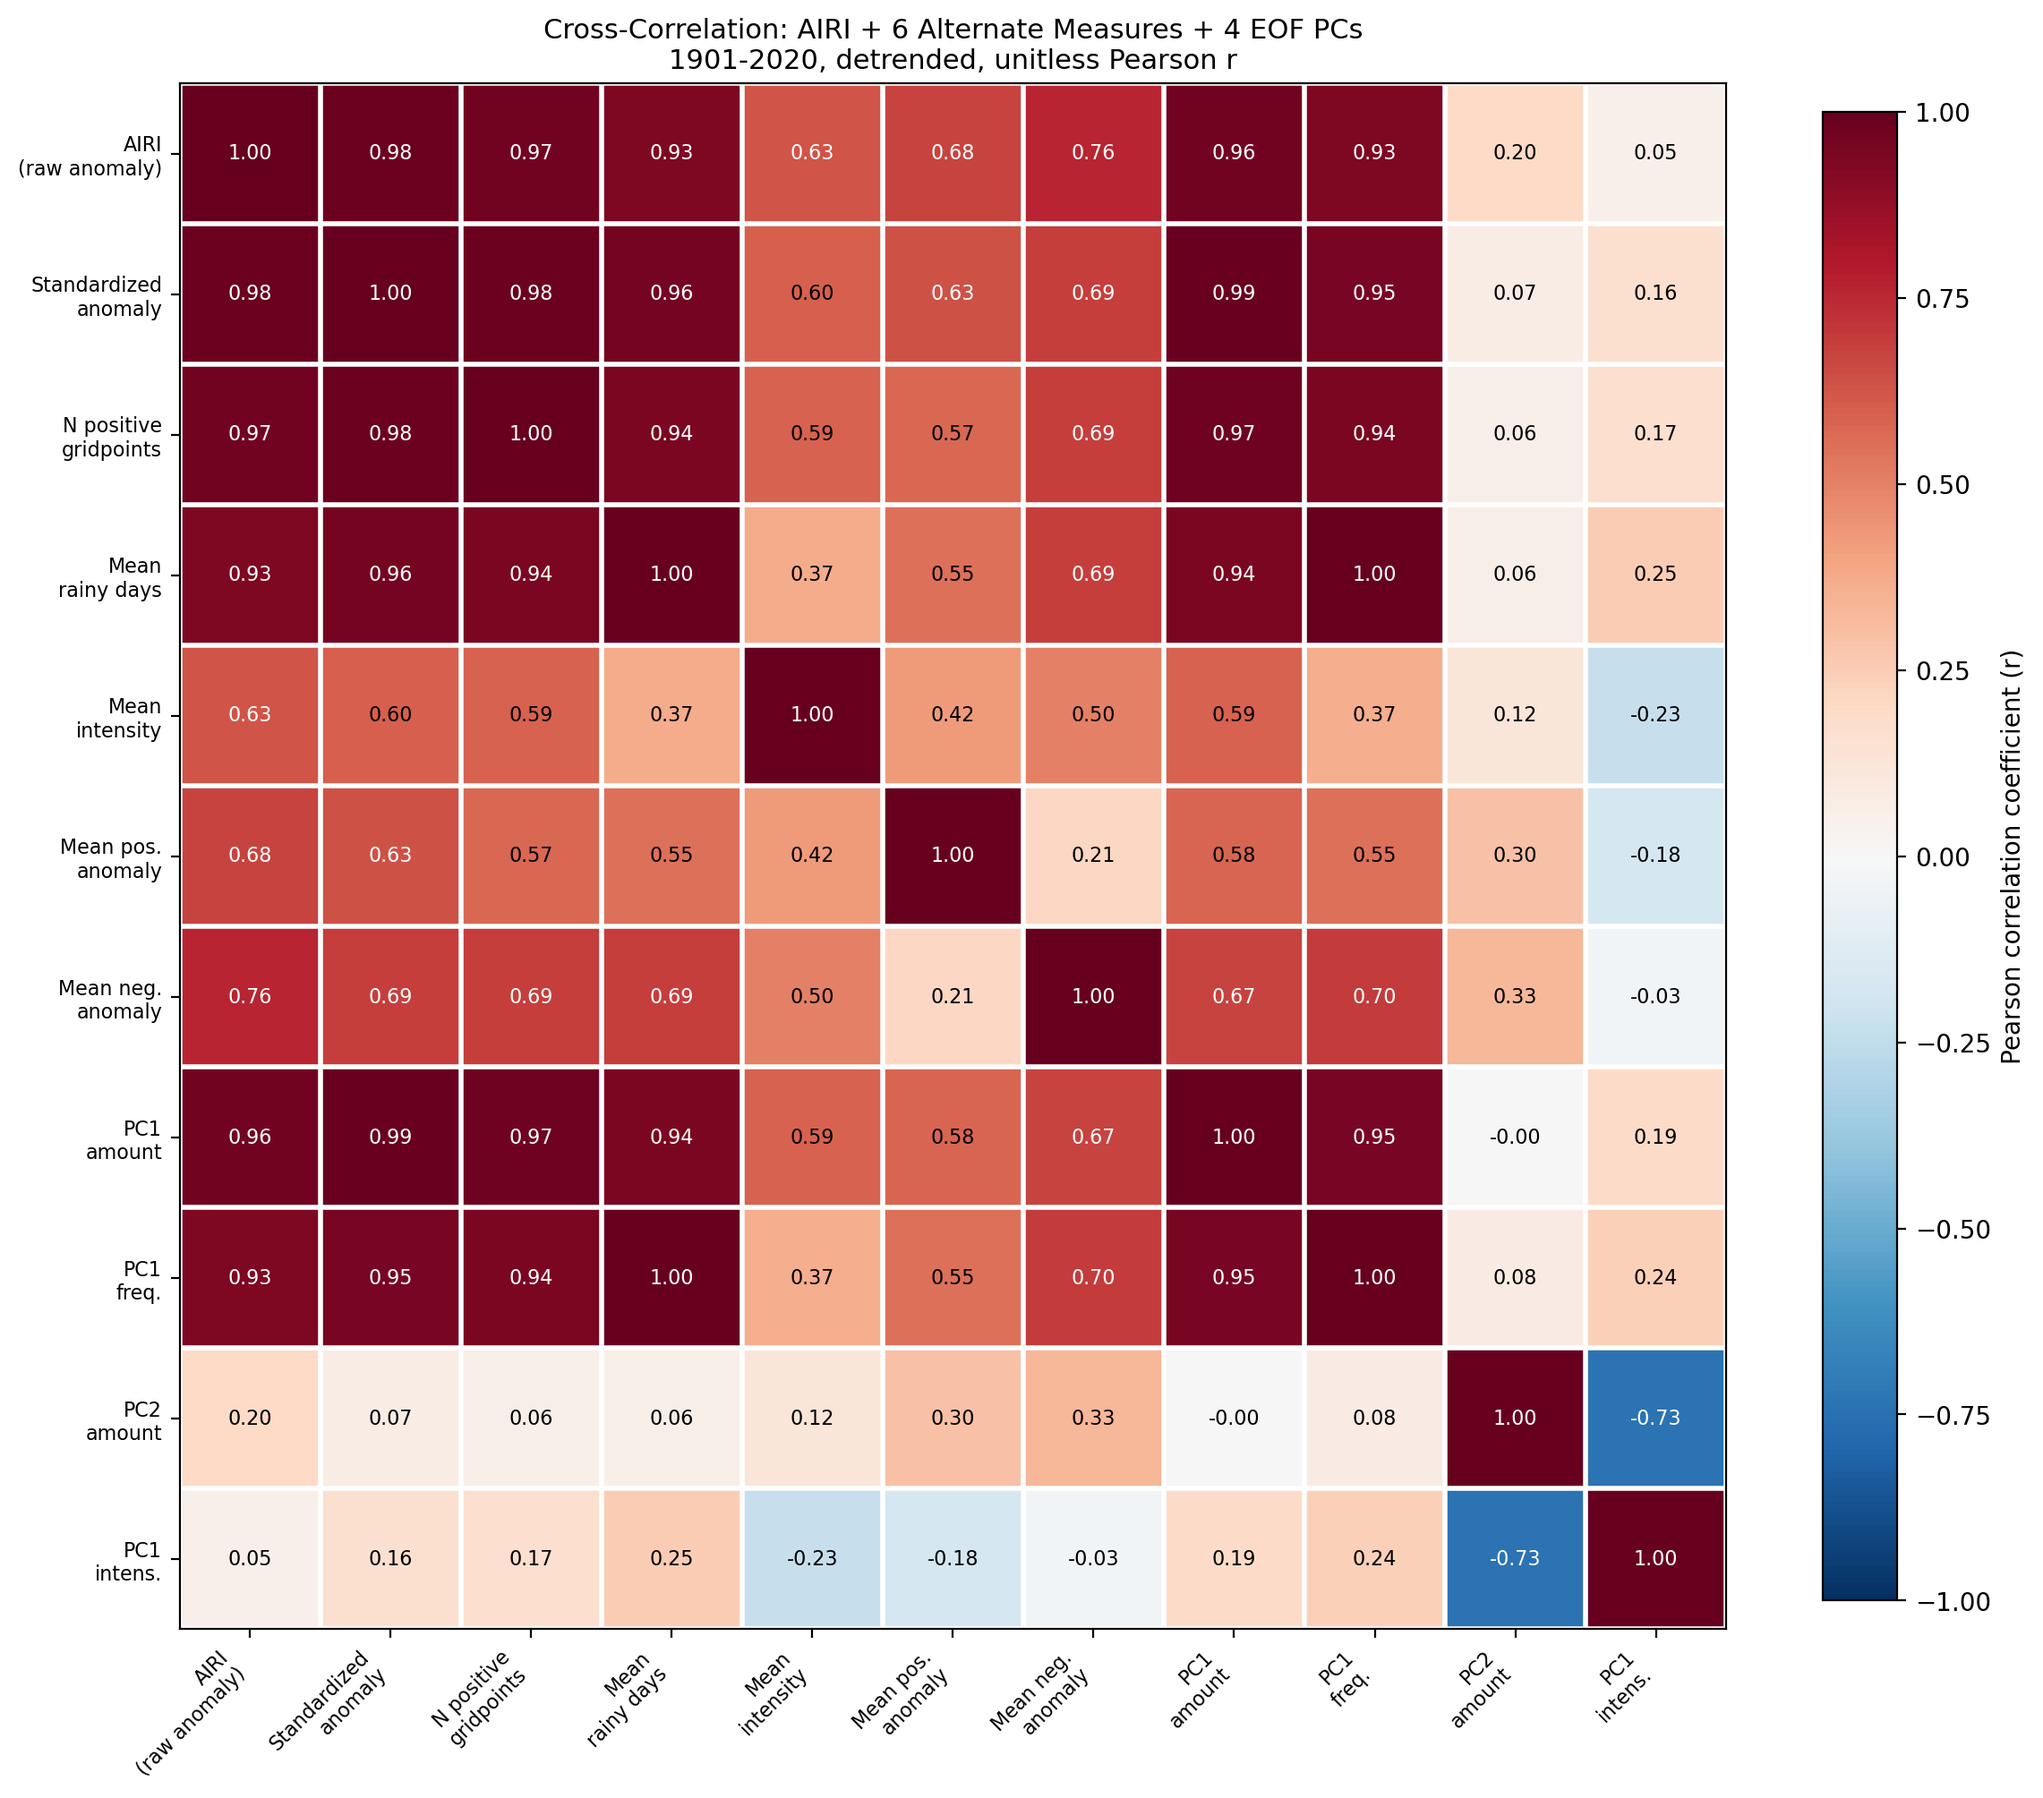
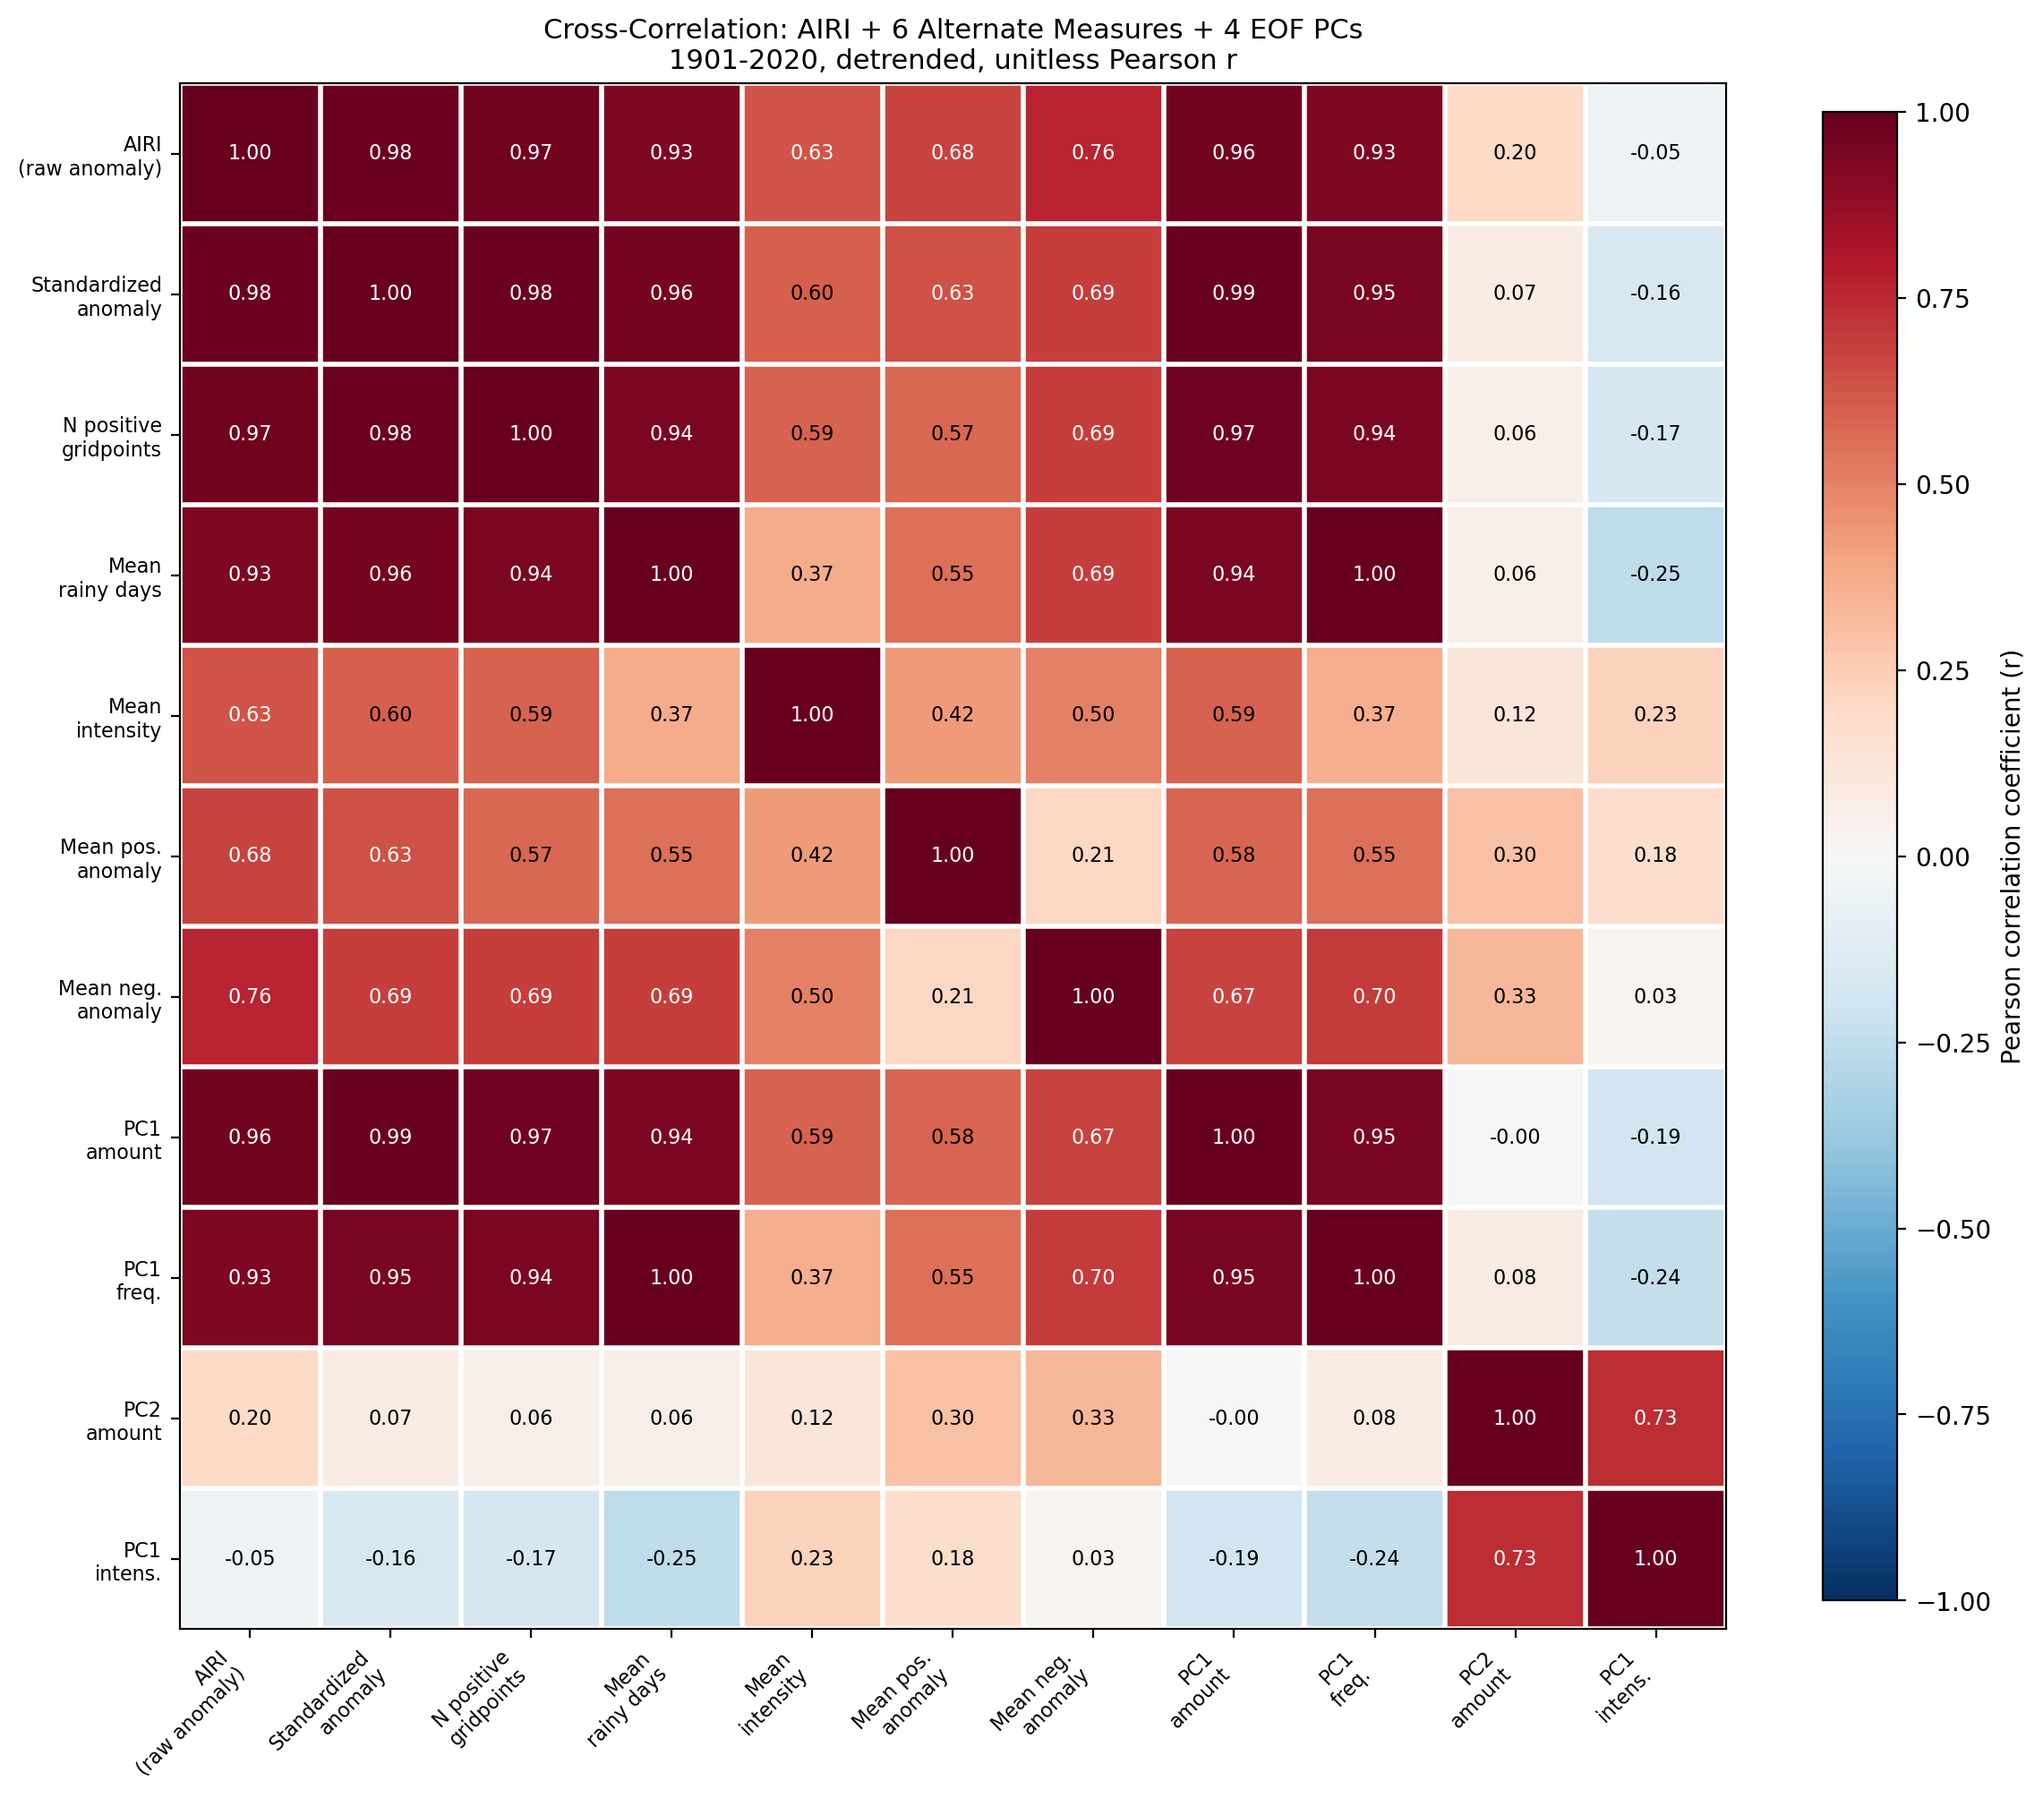
Fix PC1-intensity sign to match source paper's convention
compute_moron_eof_analysis.py and plot_eof_comparison.py previously forced
PC1 to correlate POSITIVELY with AIRI for all three EOF variables uniformly.
That was backwards for mean intensity specifically: the source paper's own
published correlation matrix shows PC1-intensity anti-correlated with AIRI,
while rainfall-amount and rainy-day-frequency are both strongly positive.
Added a per-variable TARGET_SIGN so intensity is now fixed to correlate
NEGATIVELY with AIRI instead, matching the paper.

This flips the sign of every correlation involving pc1_mean_intensity in the
correlation matrix (nothing else changes) - e.g. vs AIRI: +0.05 -> -0.05, vs
PC2-amount: -0.73 -> +0.73. Also flips the eof_mean_intensity.png spatial
pattern (red/blue swapped) and the eof_comparison.png panel.

Reminder for future work: EOF sign is mathematically arbitrary and there's no
way to know the "correct" one a priori - it has to be checked against a
reference (here, the paper's reported correlation signs), not assumed
uniform across variables just because it worked for two of three.

Changed region(s): [[0.56, 0.5864, 0.8712, 0.9258], [0.1556, 0.8024, 0.4978, 0.9258], [0.7778, 0.1234, 0.8712, 0.5246]]

diff --git a/compute_moron_eof_analysis.py b/compute_moron_eof_analysis.py
@@ -18,12 +18,16 @@ EOF decomposition uses cos(latitude) area weighting and fills the invalid
 (non-India) domain with 0 before solving, matching the convention in the
 companion enso-sst-analysis project's eofAnalysis_fixed.py.
 
-PC1's sign for each variable is flipped, if needed, so it correlates
-positively with AIRI's detrended raw-anomaly index
-(data/indices/airi_indices.csv, airi_raw_anomaly_mm_day_detrended) - EOF sign
-is mathematically arbitrary, so this just fixes the physically intuitive
-convention (positive PC1 = wetter/more frequent/more intense than normal).
-EOF2 has no equally natural anchor, so its raw solver sign is kept.
+PC1's sign for each variable is fixed against AIRI's detrended raw-anomaly
+index (data/indices/airi_indices.csv, airi_raw_anomaly_mm_day_detrended) -
+EOF sign is mathematically arbitrary, so this just fixes it to a known
+convention rather than whatever the solver happens to produce. Rainfall
+amount and rainy-day frequency are flipped (if needed) to correlate
+POSITIVELY with AIRI; mean intensity is flipped (if needed) to correlate
+NEGATIVELY - matching the source paper's own published correlation matrix,
+where PC1-intensity is anti-correlated with AIRI while the other two are
+strongly positively correlated (see TARGET_SIGN below). EOF2 has no equally
+natural anchor, so its raw solver sign is kept.
 
 Also saves all 6 PC time series (PC1+PC2 x 3 variables) to
 data/indices/eof_pcs.csv, for compute_airi_correlation_matrix.py to fold into
@@ -94,6 +98,14 @@ FIELDS = {
 
 airi = pd.read_csv('data/indices/airi_indices.csv').set_index('year')['airi_raw_anomaly_mm_day_detrended']
 
+# Target sign of PC1's correlation with AIRI, per variable. Rainfall amount and
+# rainy-day frequency: positive (more/wetter -> higher AIRI, matches the source
+# paper's published matrix). Mean intensity: NEGATIVE - the paper's own matrix
+# shows PC1-intensity anti-correlated with AIRI, so forcing positive here (as
+# an earlier version of this script did, assuming the same convention as the
+# other two) was backwards for this one variable specifically.
+TARGET_SIGN = {'rainfall_mean': 1, 'rainy_day_frequency': 1, 'mean_intensity': -1}
+
 lat_vals = ds.lat.values
 lon_vals = ds.lon.values
 weights_2d = np.cos(np.deg2rad(lat_vals))
@@ -109,7 +121,8 @@ def render(varname, label, field):
 
     pc1_vals = pcs[:, 0].values
     r = np.corrcoef(pc1_vals, airi.reindex(field_filled['time'].values).values)[0, 1]
-    sign1 = 1 if r >= 0 else -1
+    natural_sign = 1 if r >= 0 else -1
+    sign1 = natural_sign * TARGET_SIGN[varname]
     print(f"{varname}: EOF1 {float(variance[0]) * 100:.1f}% var (r with AIRI: {r * sign1:+.2f} after sign fix), "
           f"EOF2 {float(variance[1]) * 100:.1f}% var")
 

diff --git a/plot_eof_comparison.py b/plot_eof_comparison.py
@@ -68,26 +68,33 @@ FIELDS = {
 
 airi = pd.read_csv('data/indices/airi_indices.csv').set_index('year')['airi_raw_anomaly_mm_day_detrended']
 
+# Target sign of PC1's correlation with AIRI, per variable - see
+# compute_moron_eof_analysis.py for why mean_intensity is negative (matches
+# the source paper's published matrix, where PC1-intensity anti-correlates
+# with AIRI while the other two are strongly positively correlated).
+TARGET_SIGN = {'rainfall_mean': 1, 'rainy_day_frequency': 1, 'mean_intensity': -1}
+
 lat_vals = ds.lat.values
 lon_vals = ds.lon.values
 weights_2d = np.cos(np.deg2rad(lat_vals))
 weights_2d = np.tile(weights_2d[:, np.newaxis], (1, len(lon_vals)))
 
 
-def solve(field):
+def solve(field, varname):
     field_filled = field.where(valid).fillna(0).rename({'year': 'time'})
     solver = Eof(field_filled, weights=weights_2d)
     eofs_ = solver.eofs(neofs=2)
     pcs = solver.pcs(npcs=2)
     variance = solver.varianceFraction(neigs=2)
     r = np.corrcoef(pcs[:, 0].values, airi.reindex(field_filled['time'].values).values)[0, 1]
-    sign1 = 1 if r >= 0 else -1
+    natural_sign = 1 if r >= 0 else -1
+    sign1 = natural_sign * TARGET_SIGN[varname]
     return eofs_[0] * sign1, float(variance[0]), eofs_[1], float(variance[1])
 
 
-rf_eof1, rf_var1, rf_eof2, rf_var2 = solve(FIELDS['rainfall_mean'])
-freq_eof1, freq_var1, _, _ = solve(FIELDS['rainy_day_frequency'])
-int_eof1, int_var1, _, _ = solve(FIELDS['mean_intensity'])
+rf_eof1, rf_var1, rf_eof2, rf_var2 = solve(FIELDS['rainfall_mean'], 'rainfall_mean')
+freq_eof1, freq_var1, _, _ = solve(FIELDS['rainy_day_frequency'], 'rainy_day_frequency')
+int_eof1, int_var1, _, _ = solve(FIELDS['mean_intensity'], 'mean_intensity')
 
 panels = [
     (rf_eof1, rf_var1, 'Rainfall Mean — EOF1'),

diff --git a/README.md b/README.md
@@ -62,12 +62,19 @@ large for GitHub. Only code, figures, and documentation are tracked.
   project's EOF convention. Outputs one 4-panel figure per variable (EOF1/PC1, EOF2/PC2) —
   `figures/eof_rainfall_mean.png`, `figures/eof_rainy_day_frequency.png`,
   `figures/eof_mean_intensity.png` — plus all 6 PC time series (PC1+PC2 x 3 variables) to
-  `data/indices/eof_pcs.csv`, for `compute_airi_correlation_matrix.py` to fold in. PC1 sign is fixed (if
-  needed) to correlate positively with AIRI's detrended index. Rainfall-mean and rainy-day-frequency
-  EOF1 explain 18.0%/31.8% of variance and correlate strongly with AIRI (r=0.96/0.93) — mean intensity's
-  EOF1 explains far less (6.0%) and is now essentially uncorrelated with AIRI once detrended (r=0.05,
-  down from 0.26 raw) — most of that original correlation was apparently the shared long-term trend, not
-  real year-to-year covariability.
+  `data/indices/eof_pcs.csv`, for `compute_airi_correlation_matrix.py` to fold in. PC1's sign convention
+  is **not** uniform across variables (`TARGET_SIGN` in the script): rainfall amount and rainy-day
+  frequency are fixed to correlate POSITIVELY with AIRI, but mean intensity is fixed to correlate
+  NEGATIVELY - matching the source paper's own published matrix, where PC1-intensity is anti-correlated
+  with AIRI while the other two are strongly positive. (An earlier version of this script forced positive
+  correlation for all three, which was backwards for intensity specifically - EOF sign is arbitrary, so
+  there was no way to know without checking against the paper's actual reported signs.) Rainfall-mean
+  and rainy-day-frequency EOF1 explain 18.0%/31.8% of variance and correlate strongly with AIRI
+  (r=0.96/0.93) — mean intensity's EOF1 explains far less (6.0%) and now correlates only weakly
+  negatively with AIRI once detrended (r=-0.05) — sign now matches the paper's reported anti-correlation,
+  though we don't have their exact magnitude to check against (this is a different, EOF-based quantity
+  from the spatially-averaged "mean intensity" measure in the correlation-matrix discrepancy noted below,
+  which is still open).
 - `compute_airi_correlation_matrix.py` — cross-correlation (Pearson r) among the 7 AIRI measures plus 4
   EOF PCs (PC1/PC2 rainfall amount, PC1 rainy-day frequency, PC1 mean intensity — matching the extra
   rows/columns in the source paper's own published matrix), all on **detrended** series, as an 11x11
@@ -77,8 +84,9 @@ large for GitHub. Only code, figures, and documentation are tracked.
   AIRI/standardized-anomaly/N-positive-gridpoints/mean-rainy-days/PC1-amount/PC1-freq are all tightly
   correlated (r≥0.93, largely the same signal, PC1-freq vs mean-rainy-days=1.00 exactly since EOF1
   dominates that field's variance); mean intensity and mean positive/negative anomaly are more
-  independent. Notable new finding: PC2-amount and PC1-intensity are strongly anti-correlated (r=-0.73). We're still chasing a specific discrepancy
-  against the source paper's published matrix for the AIRI-vs-mean-intensity cell (paper reports r=0.77;
+  independent. Notable finding: PC2-amount and PC1-intensity are strongly correlated (r=0.73). We're
+  still chasing a specific magnitude discrepancy against the source paper's published matrix for the
+  AIRI-vs-mean-intensity cell (the spatially-averaged measure, not the PC1 above - paper reports r=0.77;
   ours currently gives 0.63 detrended, 0.58 raw) — see git history / conversation log for what's been
   ruled out (aggregation order, rain-weighting, threshold choice, spatial mask artifacts) before picking
   this back up.

diff --git a/CLAUDE.md b/CLAUDE.md
@@ -136,6 +136,11 @@ available), or re-examining whether the paper's own AIRI is built differently th
 mean-anomaly definition used here. If you pick this back up, read the full conversation history for the
 detailed back-and-forth rather than re-deriving from scratch.
 
+Note this is a DIFFERENT quantity from PC1-intensity (the EOF-based measure in `eof_pcs.csv`) - don't
+conflate the two when comparing against the paper's matrix. PC1-intensity's sign was separately corrected
+(see Conventions below) once it became clear the paper shows it anti-correlated with AIRI; that fix is
+already applied and doesn't touch this open issue.
+
 ## Conventions
 
 - Map figures: crop to the data's actual extent rather than the full lat/lon grid (which extends past
@@ -170,3 +175,11 @@ detailed back-and-forth rather than re-deriving from scratch.
   is a roughly constant ~11-13 day offset (slope ~1.04), not the proportional/wetness-scaling bias the
   buggy version suggested (slope ~1.21). If you add another rainy-day-threshold script, apply this fix
   from the start rather than after the fact.
+- EOF sign conventions are picked per-variable, not uniformly. `compute_moron_eof_analysis.py` /
+  `plot_eof_comparison.py`'s `TARGET_SIGN` dict fixes rainfall-amount and rainy-day-frequency PC1 to
+  correlate POSITIVELY with AIRI, but mean-intensity PC1 to correlate NEGATIVELY - matching the source
+  paper's own published correlation matrix (PC1-intensity is anti-correlated with AIRI there, while the
+  other two are strongly positive). An earlier version forced positive correlation uniformly for all
+  three, which was backwards for intensity specifically - there's no way to know the "right" sign for an
+  EOF a priori, only by checking against a reference like the paper's reported values. If you add a 4th
+  EOF variable, check its sign against the paper rather than assuming uniform-positive is safe.
